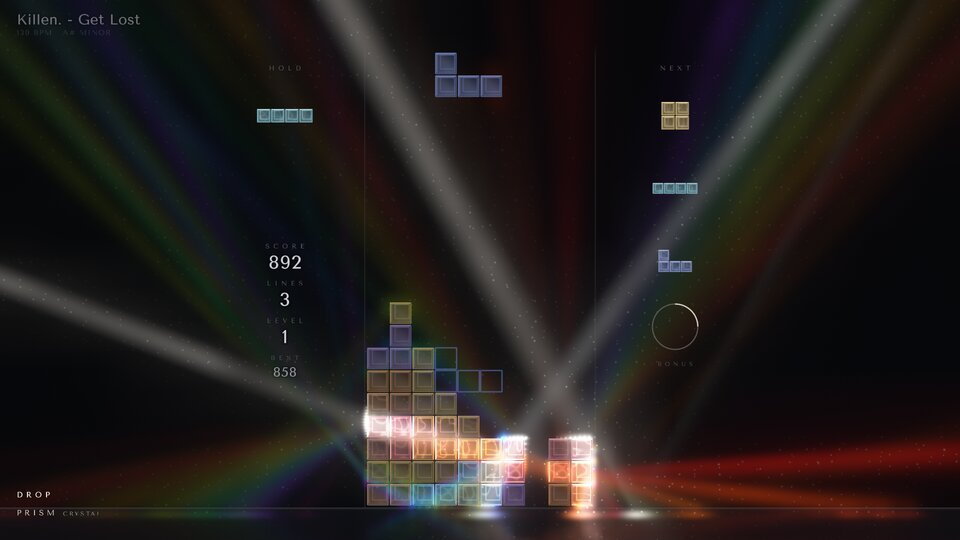
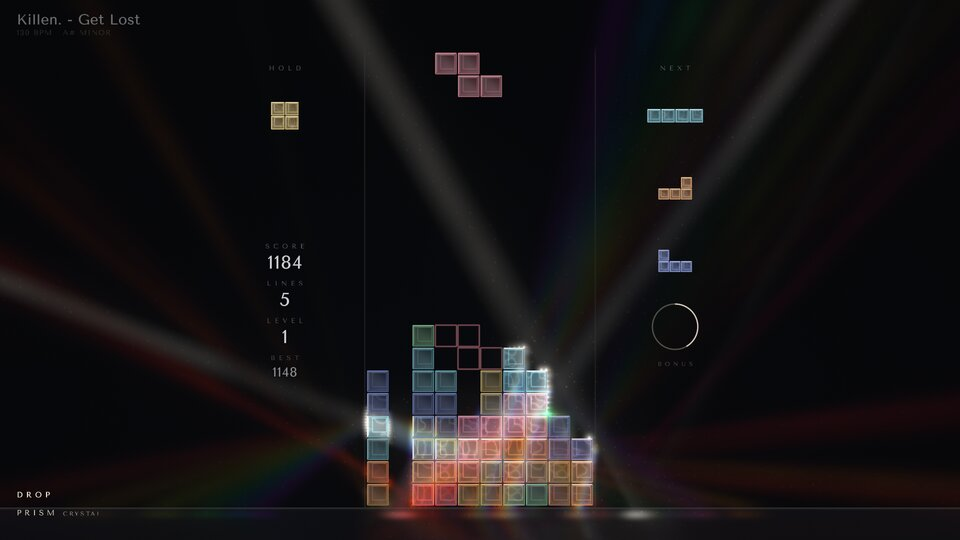
PRISM: the cubes lead, the light stays secondary (dimmer shafts, haze and spill, a color-led drop); a cleared row becomes a burst of light traced through the glass
Shafts, pools, spill and dust lowered; a soft knee on the cubes' received light; the drop no longer
adds light (white shafts step back, wider and dimmer spectral fans). Line clears: no more sparks; each
vanished cube emits short-reach rays through the same tracer (refracted through the neighbours, pooled
on the floor, dispersed in a drop), at real time; a Tetris is stronger; game over burns row by row.
docs/universes/prism.jpg regenerated from the new 1080p drop still.

Claude-Session: https://claude.ai/code/session_01DBPtRFs6M8Q4o53Qj6BCRE

diff --git a/src/universes/prism/prism.cpp b/src/universes/prism/prism.cpp
@@ -22,9 +22,10 @@
 // beat, the beams never move fast, the stack and the HUD never move.
 //
 // A lock flashes a glint where the piece touched down (a hard drop a brighter one with a few sparks along the
-// contact); a cleared row's cubes vanish at once and shatter into spectral sparks flying out (at the real speed,
-// even in slow motion); a Tetris throws the light into a full spectrum for a few seconds; slow motion is
-// moonlight (cold beams, the haze and dust slowed); game over shatters the stack from the top down.
+// contact); a cleared row's cubes vanish at once and the row becomes a short burst of light traced through the
+// same glass (lighting the cubes around it, pooling on the floor, dispersed in a drop; at the real speed, even in
+// slow motion); a Tetris throws the light into a full spectrum for a few seconds; slow motion is
+// moonlight (cold beams, the haze and dust slowed); game over turns the stack to light, row by row from the top.
 //
 // Layout contract: a flat orthographic view at the reference camera's scale on the board plane (like FLUO).
 #include "universes/prism/prism.hpp"
@@ -116,9 +117,10 @@ constexpr int SPECTRUM = 6;       // rays a dispersed ray splits into
 constexpr int MAX_SEGS = 7000;
 constexpr float N_GLASS = 1.5f;
 // the light buffer's gains: a shaft in the haze is faint, inside the glass brighter, a pool on the floor brighter
-constexpr float AIR_GAIN = 0.09f, INSIDE_GAIN = 0.35f, POOL_GAIN = 0.45f;
-constexpr float SPECTRAL_GAIN = 2.3f; // a dispersed ray in the air (the colors are dimmer than the white they split)
-constexpr float FAN_K = 0.9f;         // how widely a spectrum fans out leaving the glass (radians per unit of index)
+constexpr float AIR_GAIN = 0.045f, INSIDE_GAIN = 0.22f, POOL_GAIN = 0.2f;
+constexpr float BURST_GAIN = 1.6f;    // a cleared row's rays in the air (brief)
+constexpr float SPECTRAL_GAIN = 1.9f; // a dispersed ray in the air (the colors are dimmer than the white they split)
+constexpr float FAN_K = 1.0f;         // how widely a spectrum fans out leaving the glass (radians per unit of index)
 constexpr float TILT = 0.09f;         // how far off square a face is cut (radians, peak to peak)
 // the spectrum, red (bent least) to violet; normalized at init so that the sum is white
 vec3 SPEC[SPECTRUM] = {{1.f, 0.06f, 0.03f}, {1.f, 0.42f, 0.f}, {0.85f, 0.95f, 0.f},
@@ -445,16 +447,16 @@ bool PrismUniverse::hitGlass(vec2 o, vec2 d, float tMax, float& tBest, int& best
 // The light
 // =====================================================================================================
 
-void PrismUniverse::emitShaft(vec2 a, vec2 b, float w0, float w1, vec3 c, float gain) {
+void PrismUniverse::emitShaft(vec2 a, vec2 b, float w0, float w1, vec3 c, float gain, float fade) {
     if (segs_ >= MAX_SEGS) return;
     segs_++;
-    const float i1 = std::pow(w0 / std::max(w1, 1e-3f), 0.6f);
+    const float i1 = std::pow(w0 / std::max(w1, 1e-3f), 0.6f) * fade;
     light_.push_back({{a.x, a.y, b.x, b.y}, {w0, w1, gain, gain * i1}, {c.x, c.y, c.z, 0.f}, {0.f, 0.f, 0.f, 0.f}});
 }
 
 void PrismUniverse::emitGlint(vec2 p, vec3 c, float size) {
     if (glow_.size() > 600 || size < 0.02f) return;
-    glow_.push_back({{p.x, p.y, 0.f, 0.f}, {size, 0.f, 1.f, 0.f}, {c.x, c.y, c.z, 2.f}, {0.f, 0.f, 0.f, 0.f}});
+    glow_.push_back({{p.x, p.y, 0.f, 0.f}, {size, 0.f, 0.5f, 0.f}, {c.x, c.y, c.z, 2.f}, {0.f, 0.f, 0.f, 0.f}});
 }
 
 // One ray through the room: straight in the air, refracted into a cube, piped by total internal reflection,
@@ -492,6 +494,11 @@ void PrismUniverse::trace(Ray first) {
                     const float tf = (FLOOR_Y - r.o.y) / r.d.y;
                     if (tf > 1e-4f && tf < tEnd) { tEnd = tf; floorHit = true; }
                 }
+                if (r.fall > 0.f) {
+                    // a burst's ray reaches only so far
+                    const float reach = 3.f / r.fall;
+                    if (reach < tEnd) { tEnd = reach; floorHit = false; }
+                }
                 float tg;
                 int b;
                 vec2 n;
@@ -499,13 +506,14 @@ void PrismUniverse::trace(Ray first) {
                 if (hit) { tEnd = tg; floorHit = false; }
                 const vec2 p = add(r.o, mul(r.d, tEnd));
                 const float w1 = r.w + r.dw * tEnd;
-                emitShaft(r.o, p, r.w, w1, r.c, r.split ? AIR_GAIN * SPECTRAL_GAIN : AIR_GAIN * airK_);
-                r.c = r.c * std::pow(r.w / std::max(w1, 1e-3f), 0.6f);
+                const float fade = r.fall > 0.f ? std::exp(-r.fall * tEnd) : 1.f;
+                emitShaft(r.o, p, r.w, w1, r.c, r.g * (r.split ? AIR_GAIN * SPECTRAL_GAIN : AIR_GAIN * airK_), fade);
+                r.c = r.c * (std::pow(r.w / std::max(w1, 1e-3f), 0.6f) * fade);
                 r.w = w1;
                 if (!hit) {
-                    if (!floorHit) break;
+                    if (!floorHit || lum(r.c) < 0.003f) break;
                     // a pool of light on the polished floor, and a dim reflection back up
-                    light_.push_back({{p.x, FLOOR_Y - 0.32f, 0.45f + r.w * 0.8f, 0.24f}, {0.f, 0.f, POOL_GAIN, 0.f},
+                    light_.push_back({{p.x, FLOOR_Y - 0.32f, 0.45f + r.w * 0.8f, 0.24f}, {0.f, 0.f, POOL_GAIN * std::min(r.g, 1.5f), 0.f},
                                       {r.c.x, r.c.y, r.c.z, 1.f}, {0.f, 0.f, 0.f, 0.f}});
                     if (r.depth >= 1) break;
                     r.d.y = -r.d.y;
@@ -584,7 +592,7 @@ void PrismUniverse::trace(Ray first) {
             const float t = std::max(0.f, std::min(tx, ty));
             const vec2 n = tx < ty ? v2(r.d.x > 0.f ? 1.f : -1.f, 0.f) : v2(0.f, r.d.y > 0.f ? 1.f : -1.f);
             const vec2 p = add(r.o, mul(r.d, t));
-            emitShaft(r.o, p, r.w, r.w, r.c, INSIDE_GAIN);
+            emitShaft(r.o, p, r.w, r.w, r.c, INSIDE_GAIN * std::min(r.g, 1.5f));
             if (B.slot >= 0 && B.slot < SLOTS) {
                 acc_[B.slot] += r.c * t;
                 accDir_[B.slot] = add(accDir_[B.slot], mul(r.d, I * t));
@@ -655,24 +663,35 @@ void PrismUniverse::trace(Ray first) {
 // Game events
 // =====================================================================================================
 
-// A cube shattering into light: a few spectral sparks thrown out from where it was, away from the well's middle.
-void PrismUniverse::shatter(vec2 c, int type, float delay, float power) {
-    const vec3 tint = tintOf(type);
-    const int n = rng_.irange(3, 5);
-    const float side = c.x >= 0.f ? 1.f : -1.f;
-    for (int i = 0; i < n; i++) {
-        Spark s;
-        const float a = rng_.chance(0.75f) ? (side > 0.f ? 0.f : PI) + rng_.range(-1.1f, 1.1f) : rng_.range(0.3f, PI - 0.3f);
-        const float sp = rng_.range(3.f, 8.f) * power;
-        s.p = v2(c.x + rng_.range(-0.35f, 0.35f), c.y + rng_.range(-0.35f, 0.35f));
-        s.v = v2(std::cos(a) * sp, std::sin(a) * sp + 1.5f);
-        const vec3 spec = SPEC[rng_.irange(0, SPECTRUM - 1)] * (float)SPECTRUM;
-        s.c = (rng_.chance(0.55f) ? spec * 0.5f : lerp(tint, vec3(1.f), 0.4f)) * 2.2f;
-        s.t = 0.f;
-        s.life = rng_.range(0.28f, 0.5f);
-        s.delay = delay;
-        s.w = rng_.range(0.035f, 0.06f);
-        sparks_.push_back(s);
+// A cleared row as a light source: each vanished cube sends a short burst of rays out from where it was, in every
+// direction, traced like the beams (refracted and piped through the neighbouring cubes, which light up from it,
+// pooling on the floor, dispersed into spectra in a drop). Nothing is drawn over the row itself: the light is only
+// seen where its rays cross the haze, the glass and the floor.
+void PrismUniverse::emitBurst(const Burst& b) {
+    const float u = b.t / b.life;
+    const float e = smoothstepf(0.f, 0.08f, u) * (1.f - u) * (1.f - u);
+    if (e < 0.01f) return;
+    const int DIRS = 8;
+    for (const vec3& cell : b.cells) {
+        const vec3 c = lerp(tintOf((int)cell.z), vec3(1.f), 0.5f) * (e * b.power * 0.7f);
+        const float j = hashf(cell.x * 7.3f + cell.y * 1.9f) * TAU / DIRS;
+        for (int k = 0; k < DIRS; k++) {
+            const float a = j + k * TAU / DIRS;
+            Ray r;
+            r.d = v2(std::cos(a), std::sin(a));
+            r.o = add(v2(cell.x, cell.y), mul(r.d, 0.2f));
+            r.c = c;
+            r.w = 0.2f;
+            r.dw = 0.03f;
+            r.depth = 1; // no Fresnel offshoots: a burst is brief and dense enough
+            r.box = boxAt(r.o);
+            r.bounces = 0;
+            r.n = N_GLASS;
+            r.split = false;
+            r.g = BURST_GAIN;
+            r.fall = 0.7f;
+            trace(r);
+        }
     }
 }
 
@@ -728,10 +747,16 @@ void PrismUniverse::onEvent(const GameEvent& ev, const Game&) {
         for (auto& c : ev.cells)
             if (c.y >= 0 && c.y < Game::H) cleared[c.y] = true;
         const bool tetris = ev.count >= 4;
-        // the cubes vanish at once (the board has dropped them) and shatter into spectral sparks
-        for (auto& c : ev.cells) {
-            const vec3 w = layout::cellPos((float)c.x, (float)c.y);
-            shatter(v2(w.x, w.y), c.type, 0.f, tetris ? 1.3f : 1.f);
+        // the cubes vanish at once (the board has dropped them) and the row becomes a burst of light
+        {
+            Burst b;
+            for (auto& c : ev.cells) {
+                const vec3 w = layout::cellPos((float)c.x, (float)c.y);
+                b.cells.push_back(vec3(w.x, w.y, (float)c.type));
+            }
+            b.power = tetris ? 1.5f : 1.f;
+            b.life = tetris ? 0.6f : 0.42f;
+            if (!b.cells.empty()) bursts_.push_back(b);
         }
         if (tetris) tetrisT_ = 0.f;
         // collapse the per-cell light like the board
@@ -759,12 +784,19 @@ void PrismUniverse::onEvent(const GameEvent& ev, const Game&) {
         break;
     }
     case GameEvent::TopOut: {
-        // game over: the whole stack shatters, from the top down
+        // game over: the stack goes up in light, row by row from the top down
         int top = Game::H;
         for (auto& c : ev.cells) top = std::min(top, c.y);
-        for (auto& c : ev.cells) {
-            const vec3 w = layout::cellPos((float)c.x, (float)c.y);
-            shatter(v2(w.x, w.y), c.type, (c.y - top) * 0.06f, 0.8f);
+        for (int y = top; y < Game::H; y++) {
+            Burst b;
+            for (auto& c : ev.cells)
+                if (c.y == y) {
+                    const vec3 w = layout::cellPos((float)c.x, (float)c.y);
+                    b.cells.push_back(vec3(w.x, w.y, (float)c.type));
+                }
+            b.power = 0.6f;
+            b.delay = (y - top) * 0.07f;
+            if (!b.cells.empty()) bursts_.push_back(b);
         }
         for (int i = 0; i < SLOTS; i++) lit_[i] = vec3(0.f);
         break;
@@ -1089,6 +1121,11 @@ void PrismUniverse::render(const Frame& f, GLuint fbo) {
             fl.t += dt;
         }
         flares_.erase(std::remove_if(flares_.begin(), flares_.end(), [](const Flare& x) { return x.t >= x.life; }), flares_.end());
+        for (Burst& b : bursts_) {
+            if (b.delay > 0.f) b.delay -= dt;
+            else b.t += dt;
+        }
+        bursts_.erase(std::remove_if(bursts_.begin(), bursts_.end(), [](const Burst& b) { return b.t >= b.life; }), bursts_.end());
         gaugeShown_ = approach(gaugeShown_, game.bonusGauge(), 2.5f, dt);
     }
     swell = dropT_ < 12.f ? smoothstepf(0.f, 0.35f, dropT_) * std::exp(-std::max(0.f, dropT_ - 0.35f) / 2.2f) * dropAmp_ * (inDrop_ ? 1.f : 0.f) : 0.f;
@@ -1097,13 +1134,12 @@ void PrismUniverse::render(const Frame& f, GLuint fbo) {
     const float lvm = smoothstepf(0.2f, 1.f, lv_), lvp = smoothstepf(1.1f, 2.f, lv_);
     const float tet = std::exp(-tetrisT_ / 1.6f) * (tetrisT_ < 8.f ? 1.f : 0.f);
     {
-        const float on[3] = {0.75f + 0.15f * lvm + 0.1f * lvp + 0.2f * rainbow_,
-                             0.75f * lvm + 0.1f * lvp + 0.25f * rainbow_,
-                             0.8f * lvp + 0.25f * rainbow_};
+        // a drop is told by color (the dispersion), not by more light
+        const float on[3] = {0.75f + 0.15f * lvm + 0.1f * lvp, 0.75f * lvm + 0.1f * lvp, 0.8f * lvp};
         for (int i = 0; i < 3; i++) beams_[i].on = approach(beams_[i].on, on[i], 1.2f, dt);
         const float dispT = 0.035f * chorus_ * lvp + 0.24f * rainbow_ + 0.2f * tet;
         disp_ = approach(disp_, dispT, rainbow_ > 0.5f ? 4.f : 2.f, dt);
-        airK_ = 1.f - 0.55f * rainbow_;
+        airK_ = 1.f - 0.75f * rainbow_;
     }
     buildGlass(game);
     if (game.hasPiece() && !game.over()) game.pieceCells(game.piece(), pieceCell_);
@@ -1115,7 +1151,7 @@ void PrismUniverse::render(const Frame& f, GLuint fbo) {
     const float worldOn = (1.f - smoothstepf(0.f, 0.7f, bridge)) * (1.f - 0.4f * dimT_);
     for (int bi = 0; bi < 3; bi++) {
         const BeamDef& B = BEAMS[bi];
-        const float on = beams_[bi].on * worldOn * (1.f + 0.7f * swell + 0.5f * tet);
+        const float on = beams_[bi].on * worldOn * (1.f + 0.25f * swell + 0.15f * tet);
         if (on < 0.01f) continue;
         const float w = TAU / B.period;
         const float th = B.theta0 + B.thetaAmp * std::sin(world_ * w * 0.73f + B.phase * 1.7f);
@@ -1143,6 +1179,9 @@ void PrismUniverse::render(const Frame& f, GLuint fbo) {
             trace(r);
         }
     }
+    // the cleared rows' bursts of light, through the same glass
+    for (const Burst& b : bursts_)
+        if (b.delay <= 0.f) emitBurst(b);
     // the light the cubes received, smoothed (a cube lights up and dims over a fraction of a second)
     {
         const float k = 1.f - std::exp(-dt * 10.f);
@@ -1207,7 +1246,7 @@ void PrismUniverse::render(const Frame& f, GLuint fbo) {
     set1f(progScene_, "uFloorY", FLOOR_Y);
     set1f(progScene_, "uDust", (0.6f + 0.4f * lvm) * (1.f - bridge));
     set1f(progScene_, "uHaze", 0.8f - 0.15f * rainbow_);
-    set1f(progScene_, "uSpill", 0.12f + 0.06f * rainbow_);
+    set1f(progScene_, "uSpill", 0.05f);
     set4f(progScene_, "uColL", layout::LEFT_COLUMN[0], layout::LEFT_COLUMN[1], layout::LEFT_COLUMN[2], layout::LEFT_COLUMN[3]);
     set4f(progScene_, "uColR", layout::RIGHT_COLUMN[0], layout::RIGHT_COLUMN[1], layout::RIGHT_COLUMN[2], layout::RIGHT_COLUMN[3]);
     set1f(progScene_, "uBridge", smoothstepf(0.f, 1.f, bridge));

diff --git a/src/universes/prism/shaders.hpp b/src/universes/prism/shaders.hpp
@@ -167,7 +167,7 @@ void main() {
             float sz = uPx * (0.9 + 0.8 * o.y);
             dsum += exp(-d * d / (sz * sz)) * (0.35 + 0.65 * tw) * step(0.35, o.x);
         }
-        col += dsum * uDust * min(lum, 2.5) * 2.2 * vec3(1.0, 0.98, 0.95);
+        col += dsum * uDust * min(lum, 1.5) * 1.1 * vec3(1.0, 0.98, 0.95);
     }
     // the well: three hairlines of glass edge, almost invisible, catching the light that crosses them
     float hx = min(abs(p.x - 5.08), abs(p.x + 5.08));
@@ -220,6 +220,9 @@ void main() {
     float kind = vA1.w;
     vec3 lit = vA2.rgb;
     float litL = dot(lit, vec3(0.3, 0.5, 0.2));
+    // a soft knee: a cube in a strong beam glows, it never burns to white
+    lit /= 1.0 + 0.6 * litL;
+    litL /= 1.0 + 0.6 * litL;
     vec2 ld = vA3.xy;            // the light's direction through the cube (zero: none)
     float seed = vA3.z;
     float amb = vA3.w * uAmbient;
@@ -243,9 +246,9 @@ void main() {
     float keyGlint = pow(max(dot(n2, uKey), 0.0), 2.0);
     float bevT = smoothstep(-bw, 0.0, d); // across the chamfer: 0 at the face, 1 at the silhouette
     vec3 col = tint * amb * (0.03 + 0.045 * smoothstep(0.45, -0.45, q.y)) * (1.0 - bev);
-    col += tint * amb * bev * (0.07 + 0.35 * keyGlint) * (0.6 + 0.4 * bevT);
+    col += tint * amb * bev * (0.1 + 0.4 * keyGlint) * (0.6 + 0.4 * bevT);
     float rim = exp(-d * d / (px * px * 1.0));
-    col += tint * amb * rim * 0.2;
+    col += tint * amb * rim * 0.32;
     float ridge = exp(-(d + bw) * (d + bw) / (px * px * 1.2));
     col += mix(tint, vec3(1.0), 0.5) * amb * ridge * 0.1 * (0.3 + keyGlint);
     // a broad, faint reflection across the face (the glass reads as glass)
@@ -300,8 +303,6 @@ void main() {
     const float K = 0.55;
     vec3 over = max(c - K, 0.0);
     c = min(c, vec3(K)) + (1.0 - K) * (1.0 - exp(-over / (1.0 - K)));
-    float l = max(c.r, max(c.g, c.b));
-    c += max(l - 0.85, 0.0) * 0.35; // the hottest cores bleach toward white
     c *= uMul;
     c = pow(max(c, 0.0), vec3(1.0 / 2.2));
     c += (hash12(gl_FragCoord.xy) - 0.5) / 255.0; // dither (the dark gradients would band)

diff --git a/src/universes/prism/prism.hpp b/src/universes/prism/prism.hpp
@@ -40,9 +40,9 @@ private:
 
     // ---- The light: rays traced through the glass (refraction, total internal reflection, a Fresnel reflection,
     // dispersion into a spectrum), drawn as shafts, pools on the floor and glints where they cross a face.
-    struct Ray { vec2 o, d; vec3 c; float w, dw; int depth, box, bounces; float n; bool split; };
+    struct Ray { vec2 o, d; vec3 c; float w, dw; int depth, box, bounces; float n; bool split; float g = 1.f, fall = 0.f; }; // g: gain of its shafts, fall: fading per unit (a burst's short reach)
     void trace(Ray r);
-    void emitShaft(vec2 a, vec2 b, float w0, float w1, vec3 c, float gain);
+    void emitShaft(vec2 a, vec2 b, float w0, float w1, vec3 c, float gain, float fade = 1.f);
     void emitGlint(vec2 p, vec3 c, float size);
     std::vector<Inst> light_, glow_;
     std::vector<Ray> stack_;
@@ -58,12 +58,15 @@ private:
     struct Beam { float on = 0.f; };
     Beam beams_[3];
 
-    // ---- Effects: sparks (a cleared cube shattering into spectral sparks), glints (a lock, the beat's sparkle).
+    // ---- Effects: sparks (a hard drop's, along the contact), glints (a lock, the beat's sparkle).
     struct Spark { vec2 p, v; vec3 c; float t, life, delay, w; };
     std::vector<Spark> sparks_;
     struct Flare { vec2 p; vec3 c; float t, life, size, delay; };
     std::vector<Flare> flares_;
-    void shatter(vec2 c, int type, float delay, float power);
+    // A cleared row: its cubes vanish and the row itself becomes a short burst of light, traced like the beams.
+    struct Burst { std::vector<vec3> cells; float t = 0.f, life = 0.45f, power = 1.f, delay = 0.f; }; // x, y, type
+    std::vector<Burst> bursts_;
+    void emitBurst(const Burst& b);
 
     // ---- Play.
     std::vector<Inst> cubes_;

diff --git a/docs/universes.md b/docs/universes.md
@@ -122,7 +122,7 @@ Glass marbles in square tiles, thrown out into a landscape where they pile up. A
 
 ![PRISM](universes/prism.jpg)
 
-Glass cubes in the dark, crossed by slow beams of light. A near-black room where light is the subject: a breath of depth in the backdrop, a dark polished floor under the well that mirrors the light faintly, a faint haze the beams are seen through (uneven along their length, dust glinting in them), the well marked only by three hairlines of glass edge that catch the light crossing them. The pieces are cubes of optical glass, one per cell, delicately tinted per piece type: nearly invisible where no light falls (a faint tinted body, a hairline at the silhouette, narrow chamfers catching a dim key light, the back edges seen through the glass, so every cube stays readable), coming alive where a beam crosses them (the body glowing in its tint, the chamfers facing the light blazing, those it leaves by glowing in the glass's color, slow caustic veins inside). One to three soft beams fall from out of frame and drift very slowly across the well (a minute or more to cross it, the angle swaying slowly). Each beam is a bundle of rays traced on the CPU through the glass in 2D: refraction at each face (cut slightly off square, a hand-made glass), total internal reflection (light piped down through the stack), a Fresnel reflection that sends a dimmer beam off the faces, absorption in the glass's tint (light leaving a rose cube is rose), pools of light where the rays reach the floor, glints where they cross a face; the light each cube receives lights it, smoothed so that nothing flickers, and the falling piece takes part (it throws the light around as it falls). Five lights, each with its own seven glasses (CRYSTAL, a neutral white and pale tints; TUNGSTEN, a warm lamp and amber glass; MOONLIGHT, a cold blue light and jewel glass; ROSE QUARTZ, a rose light and pastel glass; AURORA, a pale green light and sea glass), from the key, mode and brightness (`--universe "prism:rose quartz"`). Calm is one beam in a light haze; mid brings a second from the other side and a glint on a lit cube every bar; a chorus brings a third, low and raking, and faint fringes of color. A drop (the section shown in the HUD, or the song's drive) is a rainbow: on its downbeat the beams swell once (settling over seconds) and turn white, and the glass disperses them: every ray entering a cube splits into a spectrum that fans out of it (and out of the faces' reflections, diffracted), throwing rainbow bands across the room and rainbow pools on the floor for the whole drop, the white shafts stepping back; a glint every two beats. Nothing pulses with the beat, the beams never move fast, the stack and the HUD never move. A lock flashes one glint where the piece touched down (a hard drop a brighter one with a few sparks along the contact); a cleared row's cubes vanish at once and shatter into spectral sparks flying out of the well (at the real speed, even in slow motion); a Tetris throws the light into a full spectrum for a few seconds; slow motion is moonlight (cold beams, the haze and the dust slowed); game over shatters the stack from the top down; it leaves and enters with the light going out, the stack in plain ink. The beams are drawn into a half-resolution light buffer (its mipmaps give the light scattered on the backdrop), the tracing is capped at a few thousand segments a frame. The bonus gauge is a thin ring of light. Its HUD font is Tenor Sans (SIL Open Font License, `src/universes/prism/OFL-TenorSans.txt`).
+Glass cubes in the dark, crossed by slow beams of light. A near-black room where light is the subject: a breath of depth in the backdrop, a dark polished floor under the well that mirrors the light faintly, a faint haze the beams are seen through (uneven along their length, dust glinting in them), the well marked only by three hairlines of glass edge that catch the light crossing them. The pieces are cubes of optical glass, one per cell, delicately tinted per piece type: nearly invisible where no light falls (a faint tinted body, a hairline at the silhouette, narrow chamfers catching a dim key light, the back edges seen through the glass, so every cube stays readable), coming alive where a beam crosses them (the body glowing in its tint, the chamfers facing the light blazing, those it leaves by glowing in the glass's color, slow caustic veins inside). One to three soft beams fall from out of frame and drift very slowly across the well (a minute or more to cross it, the angle swaying slowly). Each beam is a bundle of rays traced on the CPU through the glass in 2D: refraction at each face (cut slightly off square, a hand-made glass), total internal reflection (light piped down through the stack), a Fresnel reflection that sends a dimmer beam off the faces, absorption in the glass's tint (light leaving a rose cube is rose), pools of light where the rays reach the floor, glints where they cross a face; the light each cube receives lights it, smoothed so that nothing flickers, and the falling piece takes part (it throws the light around as it falls). Five lights, each with its own seven glasses (CRYSTAL, a neutral white and pale tints; TUNGSTEN, a warm lamp and amber glass; MOONLIGHT, a cold blue light and jewel glass; ROSE QUARTZ, a rose light and pastel glass; AURORA, a pale green light and sea glass), from the key, mode and brightness (`--universe "prism:rose quartz"`). Calm is one beam in a light haze; mid brings a second from the other side and a glint on a lit cube every bar; a chorus brings a third, low and raking, and faint fringes of color. A drop (the section shown in the HUD, or the song's drive) is a rainbow, told by color rather than by more light: on its downbeat the beams swell slightly (settling over seconds) and turn white, and the glass disperses them: every ray entering a cube splits into a spectrum that fans out of it (and out of the faces' reflections, diffracted), throwing soft rainbow bands across the room and rainbow pools on the floor for the whole drop, while the white shafts step back; a glint every two beats. The cubes stay the brightest things on screen at every level (a lit cube glows on a soft knee and never burns to white); the shafts, the haze and the light scattered on the backdrop stay secondary, and nothing saturates over large areas. Nothing pulses with the beat, the beams never move fast, the stack and the HUD never move. A lock flashes one glint where the piece touched down (a hard drop a brighter one with a few sparks along the contact); a cleared row's cubes vanish at once and the row itself becomes a short burst of light (about 0.4 s, at the real speed even in slow motion), fed to the same ray tracer as the beams: each vanished cube sends rays out in every direction that refract and pipe through the neighbouring cubes (which light up from it), reach only a few cells into the room and pool on the floor, dispersed into spectra in a drop; nothing is drawn over the row, its light is only seen where the rays cross the haze, the glass and the floor. A Tetris is a stronger, longer burst and throws the beams into a full spectrum for a few seconds; slow motion is moonlight (cold beams, the haze and the dust slowed); game over turns the stack to light, row by row from the top; it leaves and enters with the light going out, the stack in plain ink. The beams are drawn into a half-resolution light buffer (its mipmaps give the light scattered on the backdrop), the tracing is capped at a few thousand segments a frame. The bonus gauge is a thin ring of light. Its HUD font is Tenor Sans (SIL Open Font License, `src/universes/prism/OFL-TenorSans.txt`).
 
 ## Transitions between universes
 
